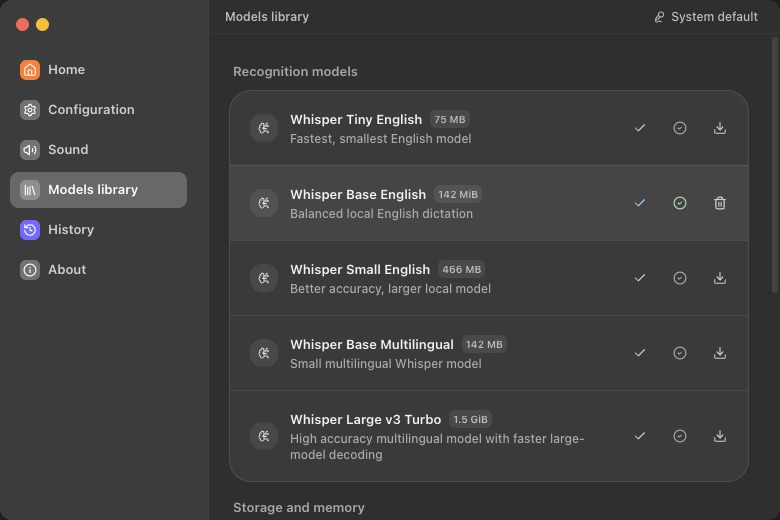
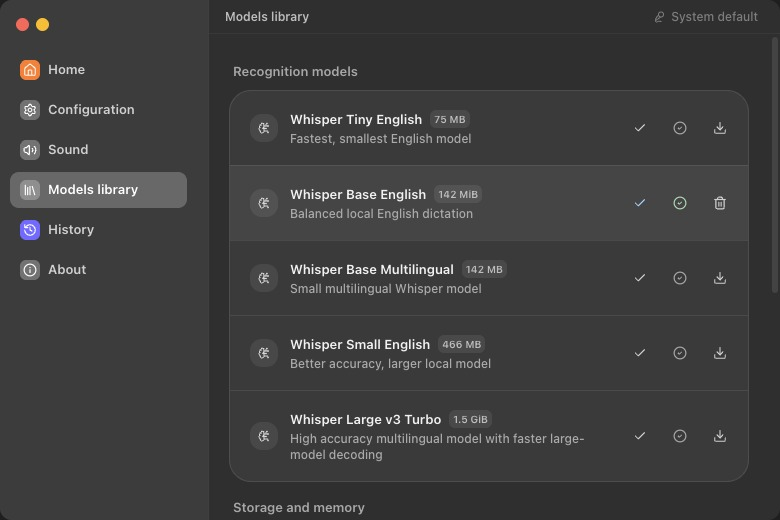
ASR Pro: sort models and clarify memory stats

Changed region(s): [[0.3692, 0.4923, 0.6462, 0.5846], [0.3692, 0.6462, 0.6462, 0.7077], [0.8615, 0.0308, 0.9538, 0.0615]]

diff --git a/src/App.test.tsx b/src/App.test.tsx
@@ -1068,11 +1068,19 @@ describe("ASR Pro Electron shell", () => {
     const tinyButton = screen.getByRole("button", { name: "Select Whisper Tiny English" }) as HTMLButtonElement;
     const smallButton = screen.getByRole("button", { name: "Select Whisper Small English" }) as HTMLButtonElement;
     const multilingualButton = screen.getByRole("button", { name: "Select Whisper Base Multilingual" }) as HTMLButtonElement;
+    const modelButtons = screen.getAllByRole("button", { name: /^Select Whisper/ }).map((button) => button.getAttribute("aria-label"));
 
     expect(baseButton.getAttribute("aria-pressed")).toBe("true");
     expect(tinyButton.disabled).toBe(false);
     expect(smallButton.disabled).toBe(false);
     expect(multilingualButton.disabled).toBe(false);
+    expect(modelButtons).toEqual([
+      "Select Whisper Tiny English",
+      "Select Whisper Base English",
+      "Select Whisper Base Multilingual",
+      "Select Whisper Small English",
+      "Select Whisper Large v3 Turbo",
+    ]);
     expect(screen.queryByText("Future placeholder")).toBeNull();
   });
 
@@ -1105,7 +1113,8 @@ describe("ASR Pro Electron shell", () => {
           items: [
             { id: "resident", label: "Resident set", bytes: 125_829_120 },
             { id: "heap", label: "JavaScript heap", bytes: 41_943_040 },
-            { id: "model-footprint", label: "AI model footprint", bytes: 148_897_792 },
+            { id: "native", label: "Native allocations", bytes: 2_831_155 },
+            { id: "model-memory", label: "AI model memory", bytes: 148_897_792, detail: "Whisper Base English active model estimate" },
           ],
         },
         {
@@ -1160,7 +1169,9 @@ describe("ASR Pro Electron shell", () => {
     expect(screen.getAllByText("1.5 GiB").length).toBeGreaterThan(0);
     expect(screen.getByText("Runtime memory")).toBeTruthy();
     expect(screen.getByText("Resident set")).toBeTruthy();
-    expect(screen.getByText("AI model footprint")).toBeTruthy();
+    expect(screen.getByText("Native allocations")).toBeTruthy();
+    expect(screen.getByText("AI model memory")).toBeTruthy();
+    expect(screen.getByText("Whisper Base English active model estimate")).toBeTruthy();
     expect(screen.getAllByText("120 MiB").length).toBeGreaterThan(0);
     expect(screen.getByText("Whisper models")).toBeTruthy();
     const turboMetaRow = screen.getByText("Whisper Large v3 Turbo").parentElement;

diff --git a/src/electronRuntime.test.ts b/src/electronRuntime.test.ts
@@ -62,8 +62,8 @@ describe("Electron runtime helpers", () => {
     expect(runtime.AVAILABLE_MODELS.map((model: { id: string }) => model.id)).toEqual([
       "whisper-tiny-en",
       "whisper-base-en",
-      "whisper-small-en",
       "whisper-base",
+      "whisper-small-en",
       "whisper-large-v3-turbo",
     ]);
     expect(runtime.AVAILABLE_MODELS.find((model: { id: string }) => model.id === "whisper-large-v3-turbo")).toMatchObject({
@@ -97,7 +97,11 @@ describe("Electron runtime helpers", () => {
         ["resident", 100],
         ["heap", 40],
         ["native", 20],
-        ["model-footprint", 12],
+        ["model-memory", 12],
+      ]);
+      expect(stats.groups[0].items.map((item: { label: string; detail?: string }) => [item.label, item.detail])).toContainEqual([
+        "AI model memory",
+        "Whisper Base English active model estimate",
       ]);
       expect(stats.groups[1].items.map((item: { id: string; bytes: number }) => [item.id, item.bytes])).toEqual([
         ["whisper-models", 12],

diff --git a/src/App.tsx b/src/App.tsx
@@ -247,16 +247,16 @@ const fallbackModelCards: EngineModelInfo[] = [
     sizeLabel: "142 MB",
   },
   {
-    id: "whisper-small-en",
-    displayName: "Whisper Small English",
-    detail: "Higher accuracy with a larger local model",
-    sizeLabel: "466 MB",
-  },
-  {
     id: "whisper-base",
     displayName: "Whisper Base Multilingual",
     detail: "Small multilingual model with language detection",
     sizeLabel: "142 MB",
+  },
+  {
+    id: "whisper-small-en",
+    displayName: "Whisper Small English",
+    detail: "Higher accuracy with a larger local model",
+    sizeLabel: "466 MB",
   },
   {
     id: "whisper-large-v3-turbo",
